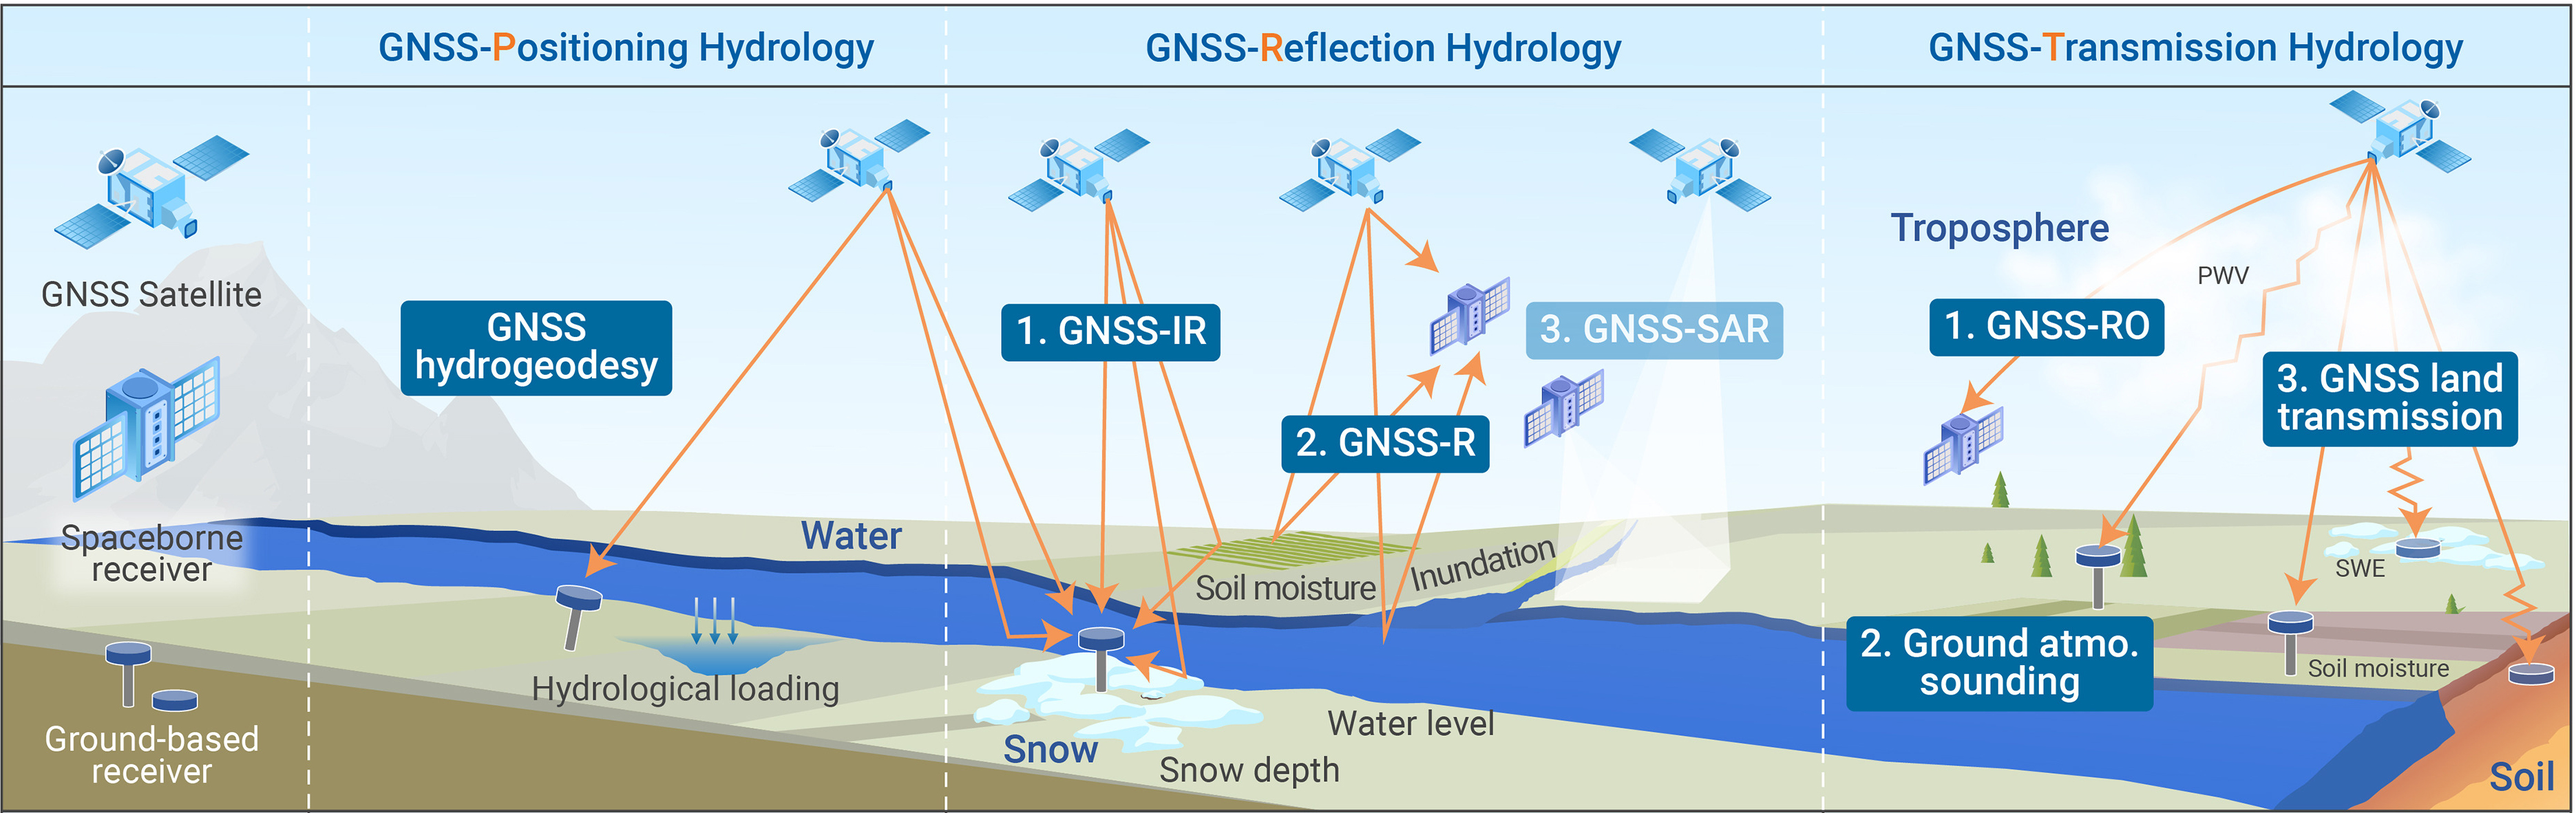
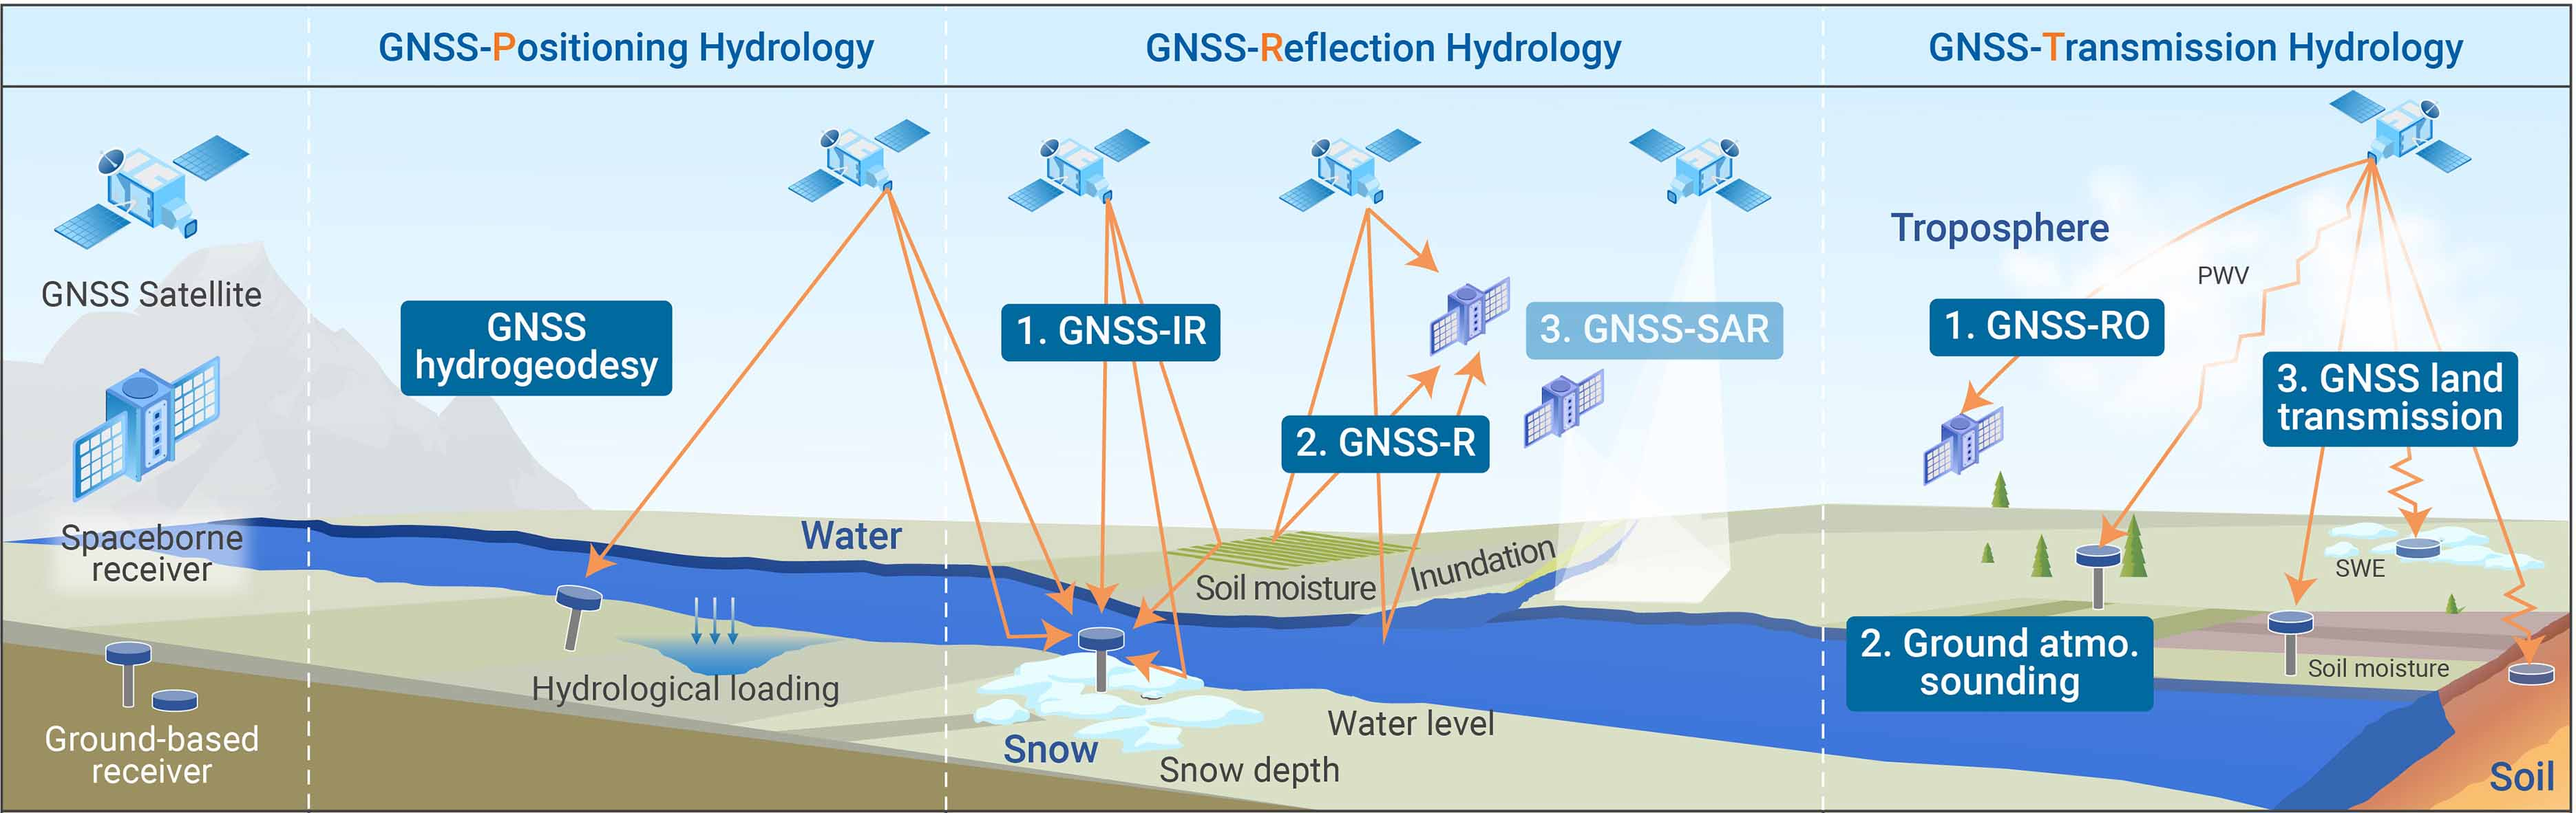
update

diff --git a/_pages/about.md b/_pages/about.md
@@ -49,7 +49,6 @@ I have published 10+ papers with ![Google Scholar citations](https://img.shields
 **Yuhao Wu**, Bao Zhang#, Yibin Yao, Zheng Du, et al., 2026. *International Journal of Applied Earth Observation and Geoinformation*. 152, 105485. (JCR Q1, IF=8.2).<br>
 
 - A hybrid model was proposed based on spherical cap harmonic analysis and XGBoost. 
-- The model calibrated the MIMIC PWV over North America spanning 2016–2024.
 - The model improved PWV accuracy by 61–66% over the original MIMIC PWV data.
 - The striping, noise and boundary errors in the original PWV map were mitigated.
 
@@ -63,7 +62,6 @@ I have published 10+ papers with ![Google Scholar citations](https://img.shields
 **Yuhao Wu**, Bao Zhang#, Yibin Yao, et al., 2026. *Geophysical Research Letters*. 53, e2026GL122585. (JCR Q1, IF=5).<br>
 
 - FY‐4B LPW was overall underestimated against radiosonde LPW with large anomalies over the Tibetan Plateau. 
-- A novel hybrid framework was proposed to calibrate FY‐4B LPW using a proportional allocation model considering spatiotemporal variability.
 - The method improved FY‐4B LPW accuracy by 27%–43% and mitigated negative biases, which had not been achieved before.
 
 
